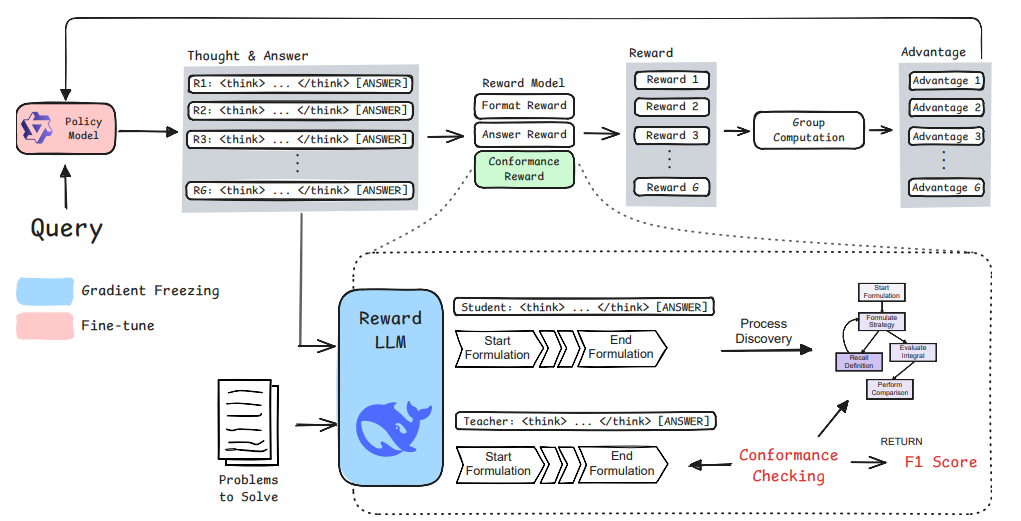
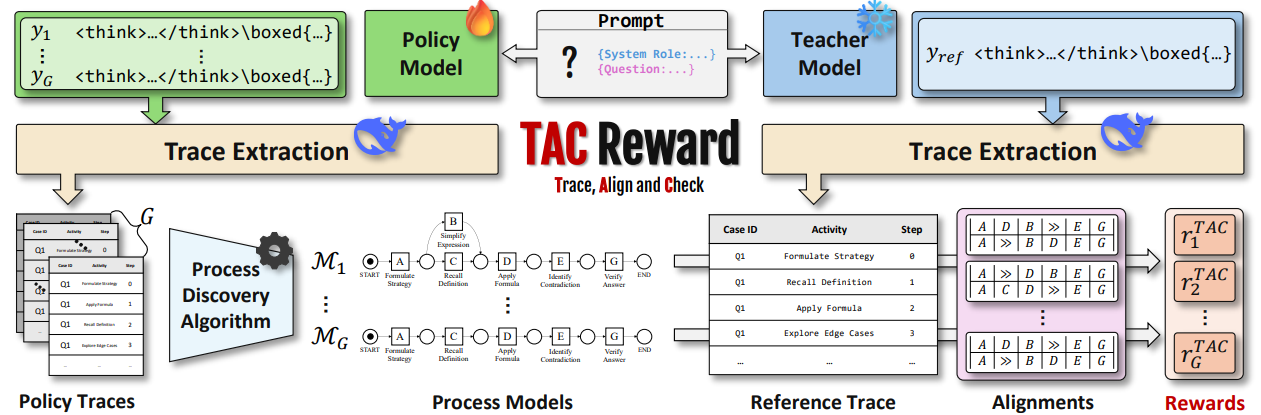
Update publications section in about page: add new papers and images

diff --git a/_pages/about.md b/_pages/about.md
@@ -34,13 +34,47 @@ I'm a Master's student at [BAELAB](https://pnubaelab.github.io/), Graduate Schoo
 - *2025.10*: &nbsp;🎉🎉 A new arXiv paper was published: `Reasoning-Aware GRPO using Process Mining` [Paper](https://huggingface.co/papers/2510.25065)
 
 # 📝 Publications 
+<sup>*</sup> indicates first author.
+
+<div class='paper-box'><div class='paper-box-image'><div class="badge">ICIC</div><img src='/images/LURKER.png' alt="sym" width="100%"></div>
+<div class='paper-box-text' markdown="1">
+
+[**LURKER: LANGUAGE MODELS FOR UNVEILING MARITIME RISKS VIA KNOWLEDGE-DRIVEN EVENT FORECASTING AND REASONING**](http://www.icicel.org/ell/contents/2026/5/el-20-05-08.pdf)
+
+<span style="color:#645495">**Taekhyun Park**</span><sup>*</sup>, Sangmin Jo, Dohee Kim and Hyerim Bae
+
+
+</div>
+</div>
+
+<div class='paper-box'><div class='paper-box-image'><div class="badge">ICIC</div><img src='/images/SangminJo.png' alt="sym" width="100%"></div>
+<div class='paper-box-text' markdown="1">
+
+[**IDENTIFYING SEVERITY OF MARITIME ACCIDENTS BASED ON WEIGHTED KERNEL DENSITY ESTIMATION**](https://thrillcrazyer.github.io/MaritimeRiskScenarioGen)
+
+Seongmoon Hong<sup>*</sup>, <span style="color:#645495">**Taekhyun Park**</span>, Dohee Kim, Sangmin Jo and Hyerim Bae
+
+
+</div>
+</div>
+
+<div class='paper-box'><div class='paper-box-image'><div class="badge">CASE Submission</div><img src='/images/framework.png' alt="sym" width="100%"></div>
+<div class='paper-box-text' markdown="1">
+
+[**Design and Implementation of an LLM-Based Maritime Risk Scenario Generation System for Vessel Traffic Services**](https://thrillcrazyer.github.io/MaritimeRiskScenarioGen)
+
+<span style="color:#645495">**Taekhyun Park**</span><sup>*</sup>, Sangmin Jo, Dohee Kim and Hyerim Bae
+
+
+</div>
+</div>
 
 <div class='paper-box'><div class='paper-box-image'><div class="badge">Arxiv</div><img src='images/CDTLLM.png' alt="sym" width="100%"></div>
 <div class='paper-box-text' markdown="1">
 
 [**Generative AI and Machine Learning Collaboration for Container Dwell Time Prediction via Data Standardization**](https://arxiv.org/abs/2602.20540)
 
-Minseop Kim<sup>*</sup>, Takhyeong Kim,  <span style="color:#645495">**Taekhyun Park**</span><sup>*</sup>, Hanbyeol Park and Hyerim Bae
+Minseop Kim<sup>*</sup>, Takhyeong Kim,  <span style="color:#645495">**Taekhyun Park**</span>, Hanbyeol Park and Hyerim Bae
 
 
 <strong><span class='show_paper_citations' data='qQyhAiwAAAAJ:eQOLeE2rZwMC'></span></strong>
@@ -53,15 +87,15 @@ Minseop Kim<sup>*</sup>, Takhyeong Kim,  <span style="color:#645495">**Taekhyun 
 
 [**Application of Large Language Models for Container Throughput Forecasting: Incorporating Contextual Information in Port Logistics**](https://arxiv.org/abs/2602.20489)
 
-Minseop Kim<sup>*</sup>, Jaeeun Kwon, Hanbyeol Park,  Kikun Park, <span style="color:#645495">**Taekhyun Park**</span><sup>*</sup> and Hyerim Bae
+Minseop Kim<sup>*</sup>, Jaeeun Kwon, Hanbyeol Park,  Kikun Park, <span style="color:#645495">**Taekhyun Park**</span> and Hyerim Bae
 
 
-<strong><span class='show_paper_citations' data='qQyhAiwAAAAJ:W7OEmFMy1HYC'></span></strong>
+<strong><span class='show_paper_citations' data='qQyhAiwAAAAJ:YsMSGLbcyi4C'></span></strong>
 
 </div>
 </div>
 
-<div class='paper-box'><div class='paper-box-image'><div class="badge">Arxiv</div><img src='images/PM4GRPO.png' alt="sym" width="100%"></div>
+<div class='paper-box'><div class='paper-box-image'><div class="badge">ICML Rejected</div><img src='images/PM4GRPO.png' alt="sym" width="100%"></div>
 <div class='paper-box-text' markdown="1">
 
 [**Reasoning-Aware GRPO using Process Mining**](https://huggingface.co/papers/2510.25065)
@@ -70,7 +104,7 @@ Yongjae Lee<sup>*</sup>, <span style="color:#645495">**Taekhyun Park**</span><su
 
 arXiv [code](https://github.com/Thrillcrazyer/THIP)
 
-<strong><span class='show_paper_citations' data='qQyhAiwAAAAJ:Tyk-4Ss8FVUC'></span></strong>
+<strong><span class='show_paper_citations' data='qQyhAiwAAAAJ:W7OEmFMy1HYC'></span></strong>
 
 </div>
 </div>
